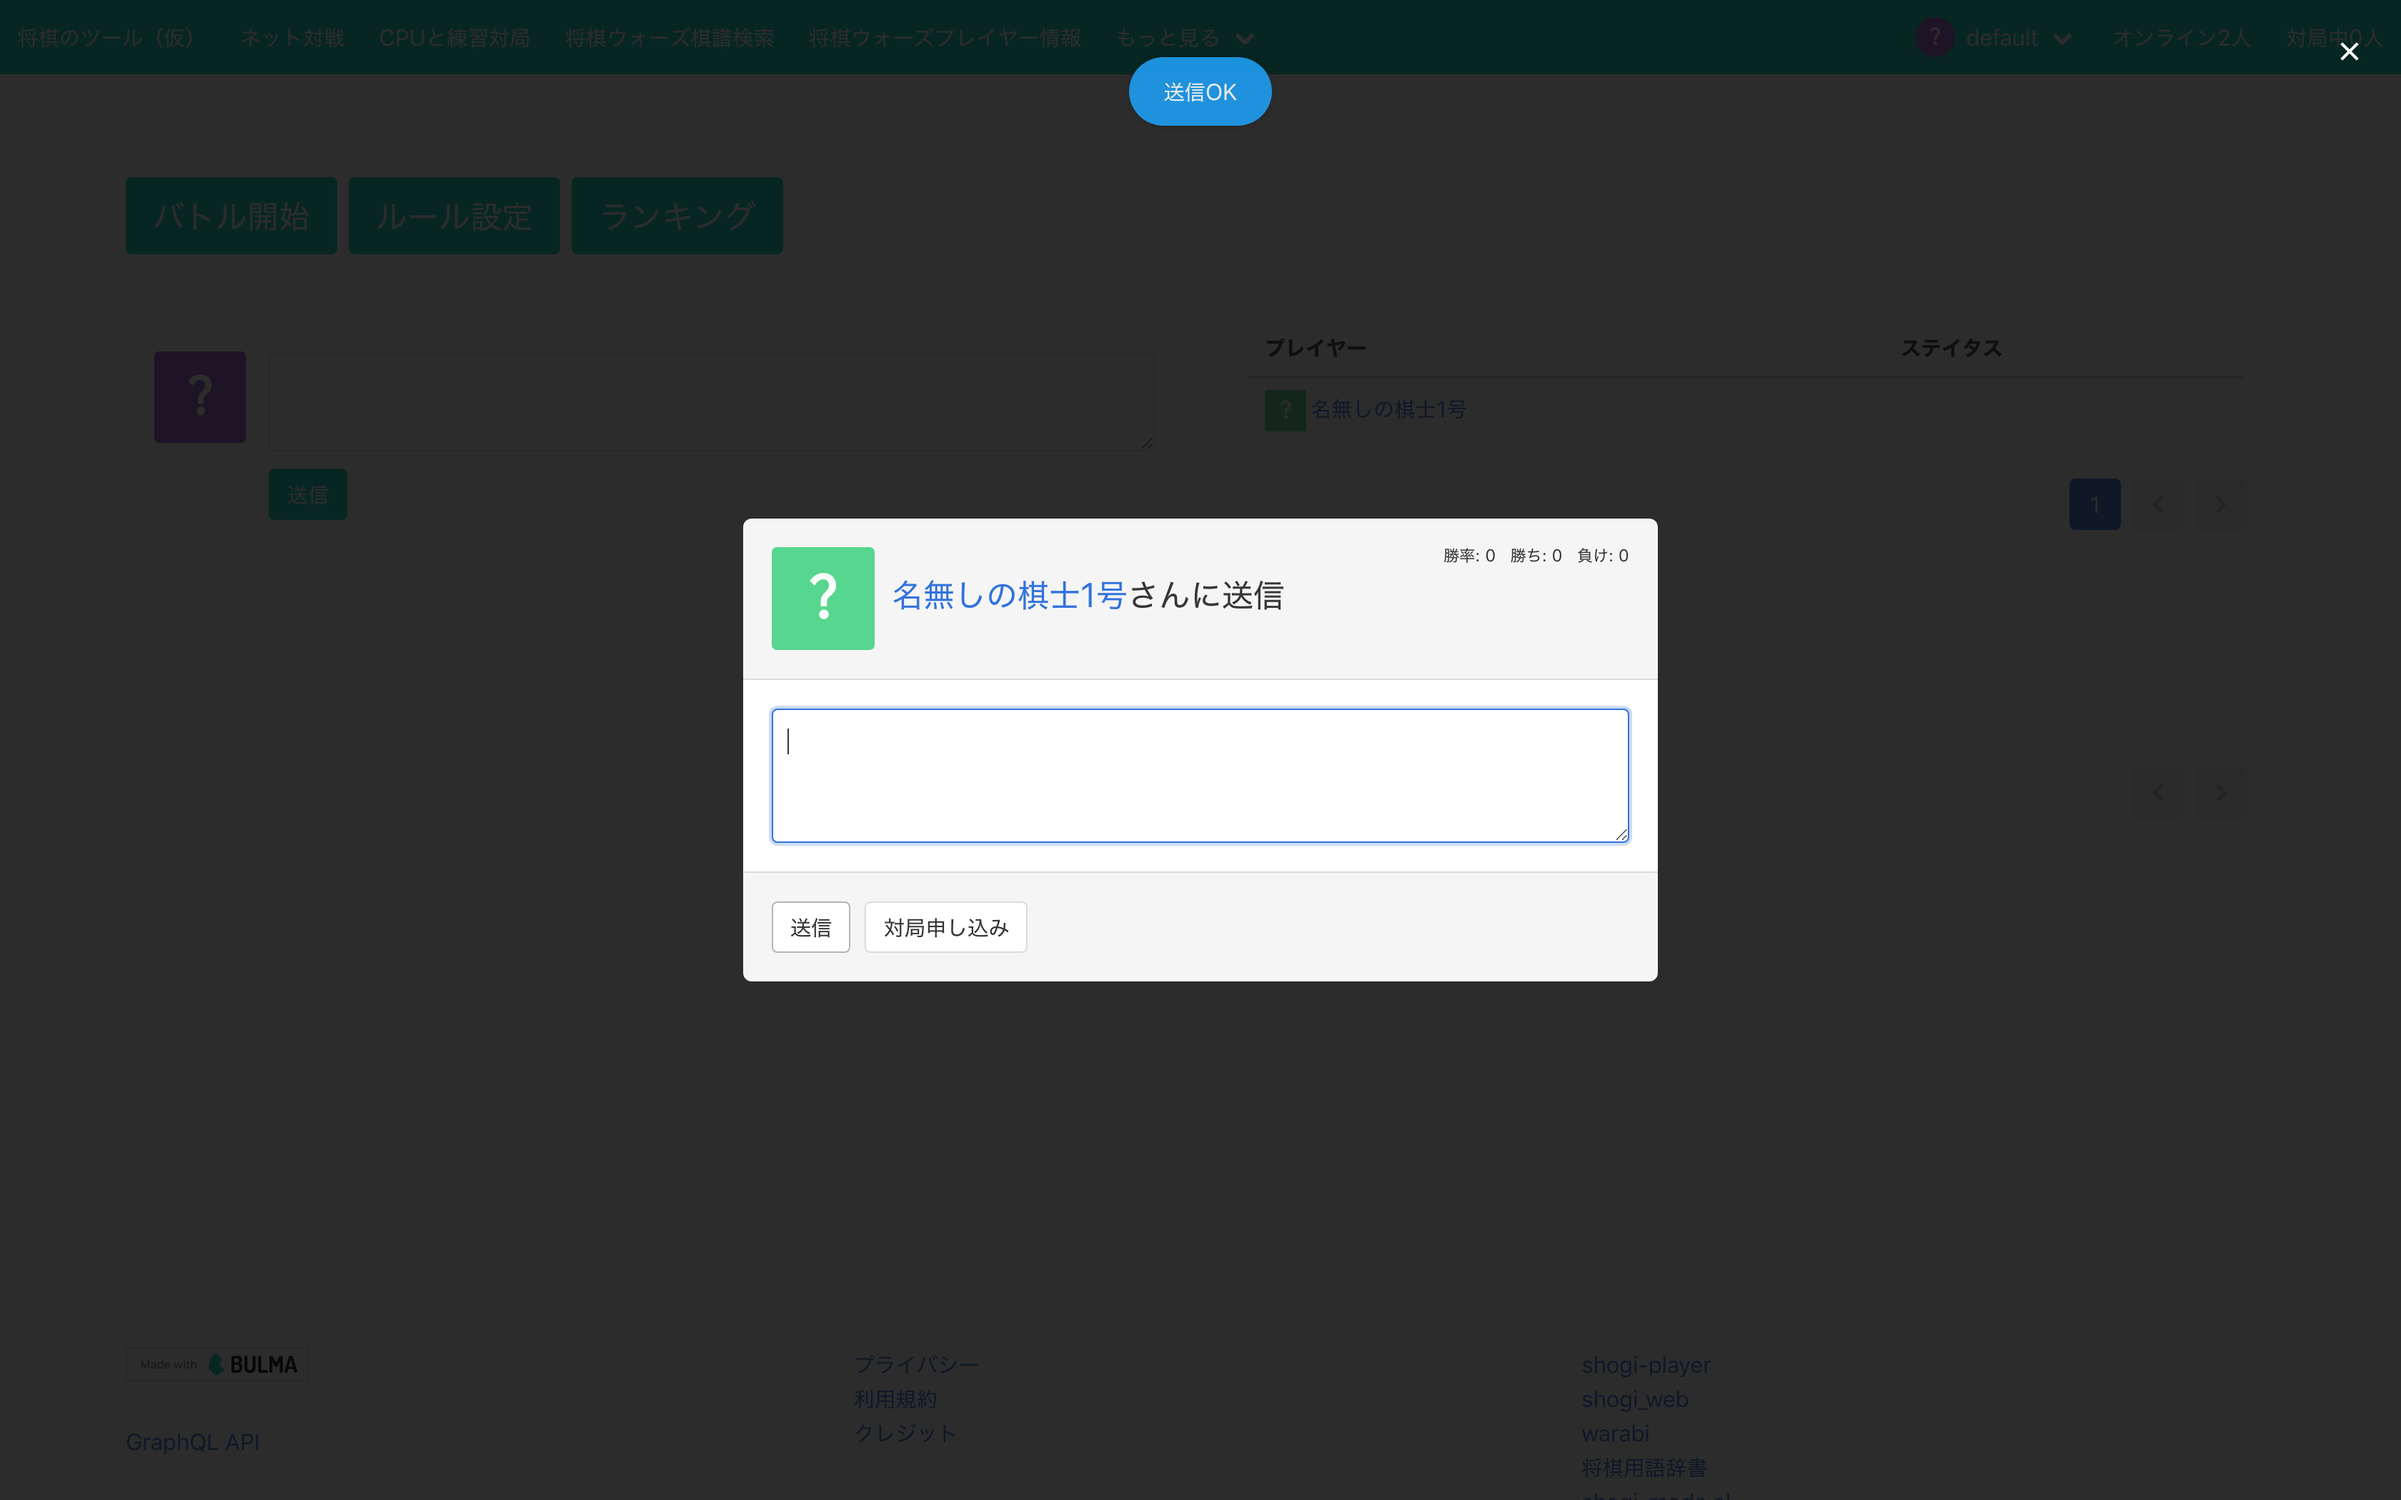
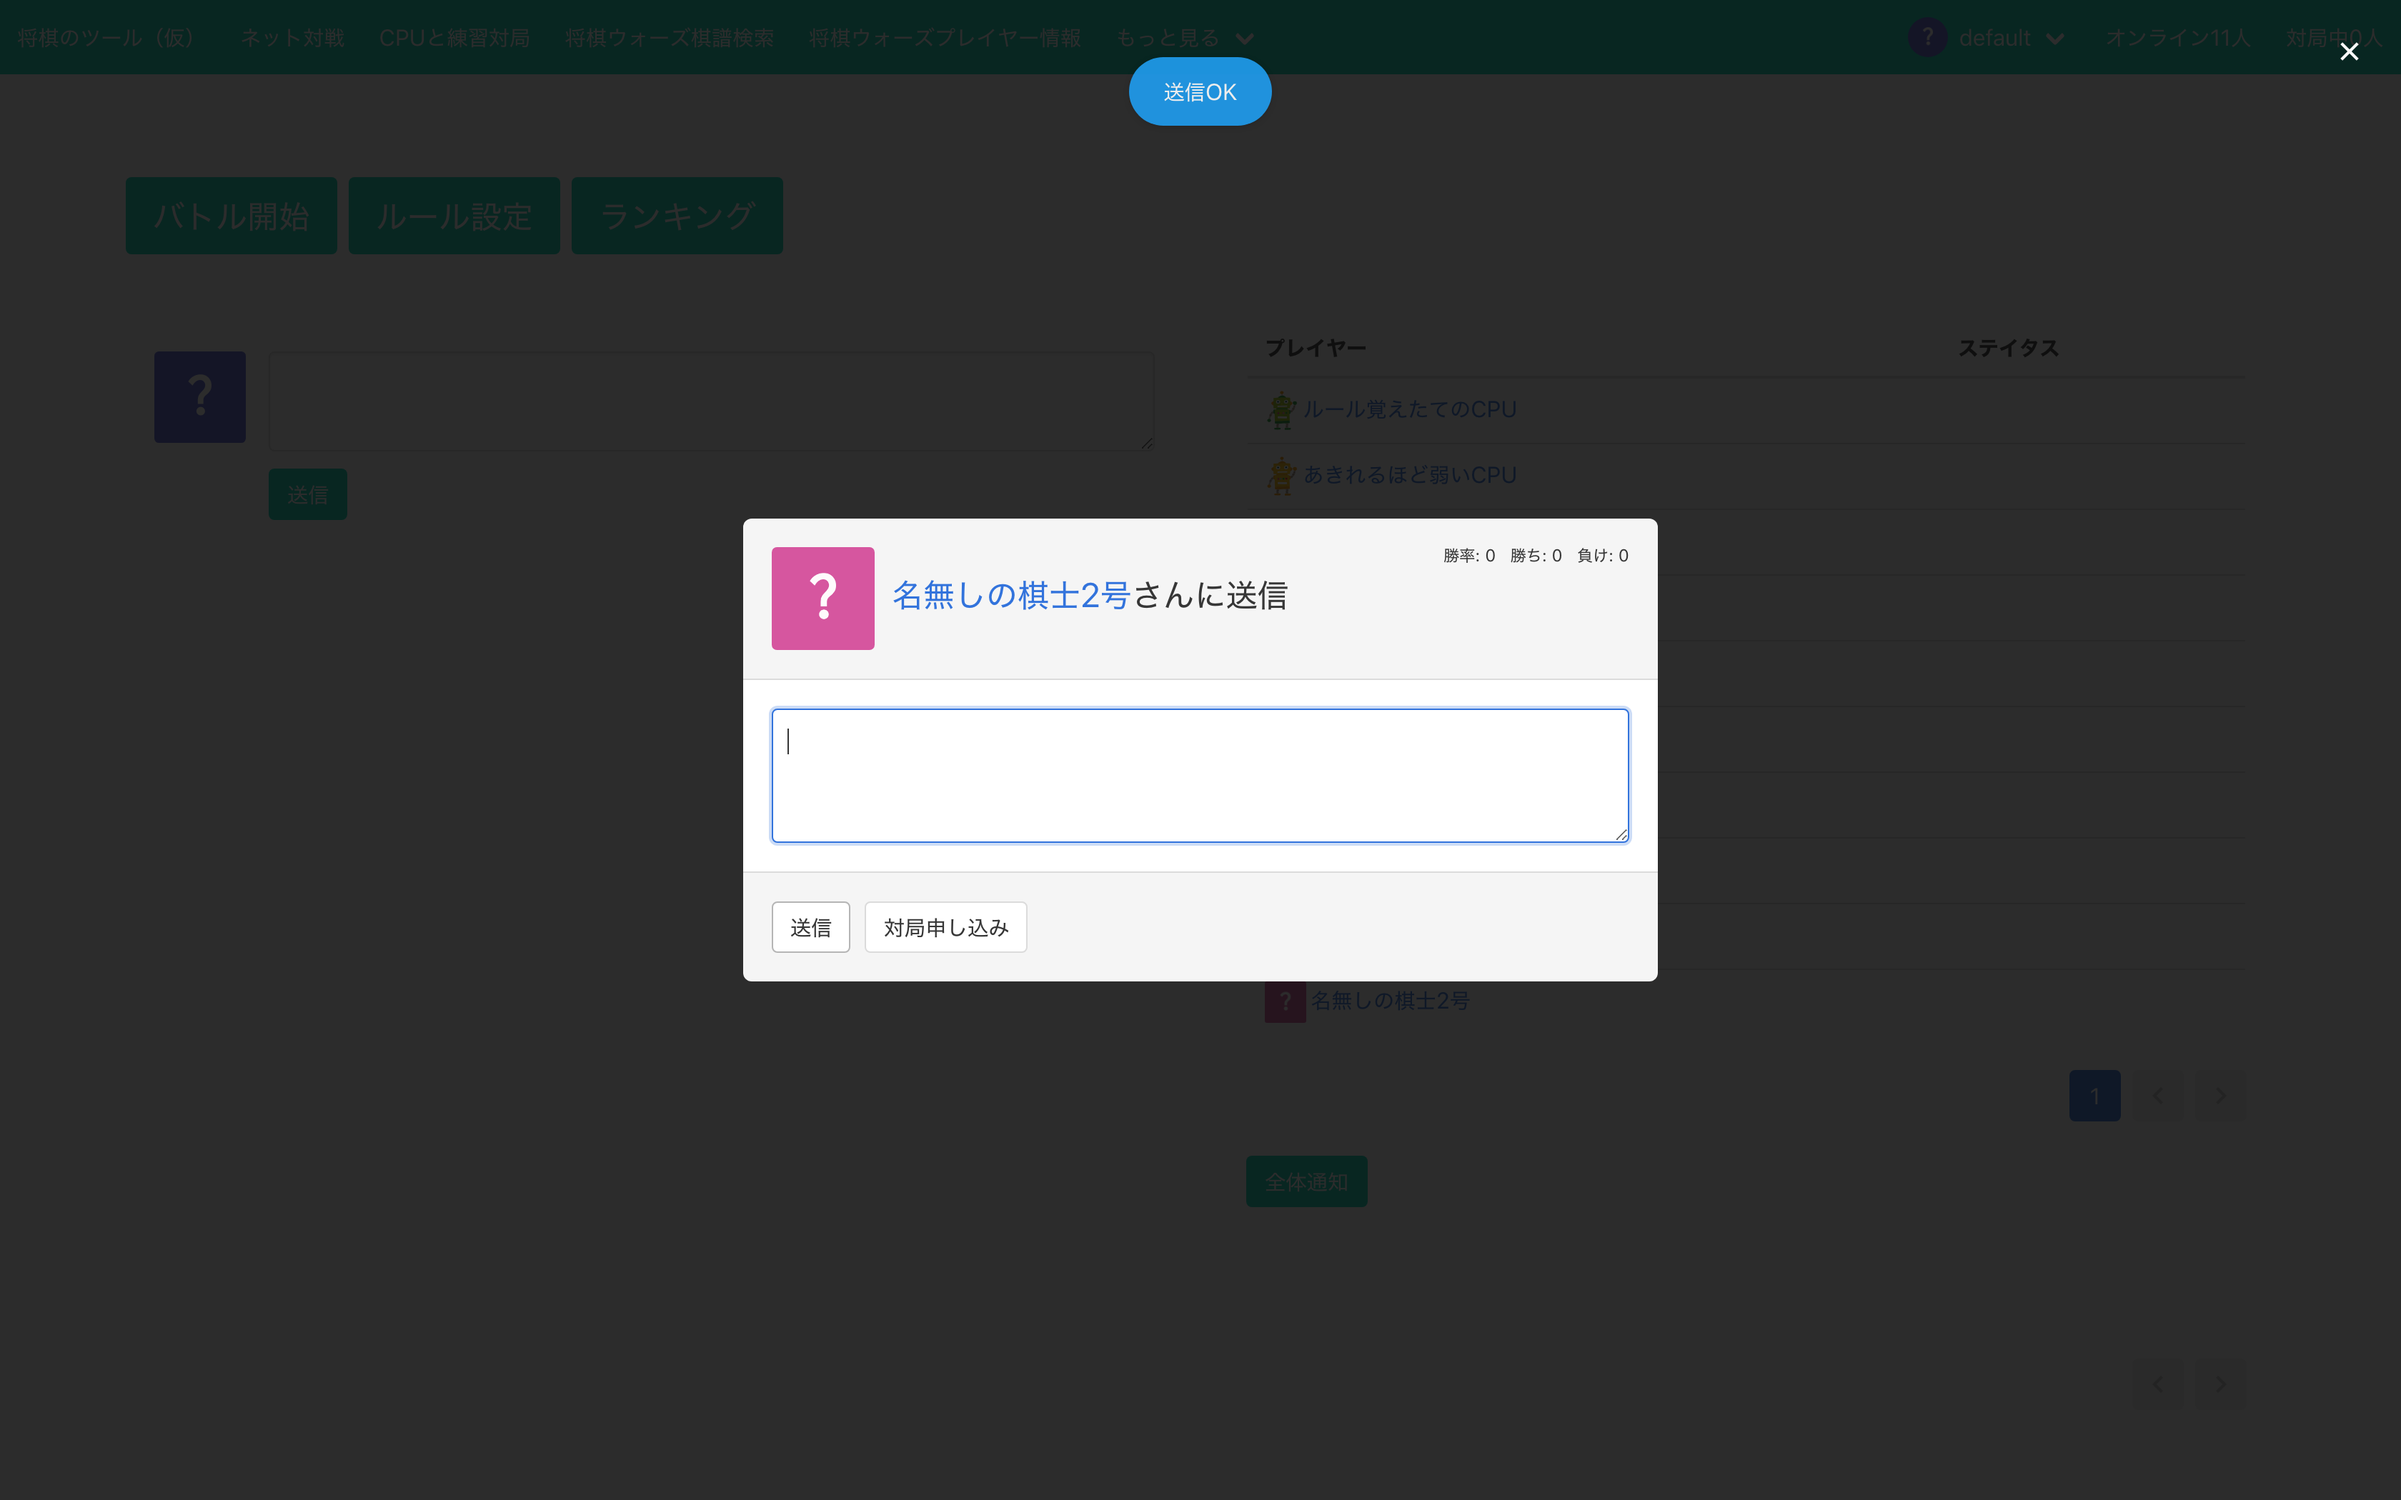
[feat] ロボットにメッセージ送信すると返事がくる

diff --git a/app/channels/single_notification_channel.rb b/app/channels/single_notification_channel.rb
@@ -7,8 +7,22 @@ class SingleNotificationChannel < ApplicationCable::Channel
 
   # App.single_notification.message_send_to({from: js_global.current_user, to: this.user_to, message: this.message})
   def message_send_to(data)
-    user = Colosseum::User.find(data["to"]["id"])
-    self.class.broadcast_to(user, data)
+    to   = Colosseum::User.find(data["to"]["id"])
+    from = Colosseum::User.find(data["from"]["id"])
+
+    # CPU同士の会話は無限ループになるため禁止
+    if to.race_info.auto_message_response && from.race_info.auto_message_response
+      return
+    end
+
+    # 受信者がCPUなら自動的に返事をする
+    if to.race_info.auto_message_response
+      message_send_to({"from" => to, "to" => from, "message" => "#{from.name}さんは#{data["message"]}なんですね"})
+      return
+    end
+
+    # 相手が人間
+    self.class.broadcast_to(to, data)
   end
 
   def battle_request_to(data)

diff --git a/spec/system/colosseum/users_spec.rb b/spec/system/colosseum/users_spec.rb
@@ -235,6 +235,21 @@ RSpec.describe "対戦", type: :system do
       end
       doc_image("送信直後")
     end
+
+    it "常駐CPUに送信" do
+      Colosseum::User.setup     # ロボットたちを準備
+
+      visit_and_login
+      find(".message_link_to.user_#{cpu_level1.id}").click
+      expect(page).to have_content "対局申し込み"
+      within(".modal-card") do
+        find("textarea").set(message)
+        click_on("送信")
+      end
+      sleep(3)                             # 待ち時間が微妙
+      expect(page).to have_content message # オウム返し
+      doc_image("返信")
+    end
   end
 
   def matching_set(name, rule)
@@ -263,5 +278,9 @@ RSpec.describe "対戦", type: :system do
 
   def message
     "おーい！対戦しようぜ！"
+  end
+
+  def cpu_level1
+    Colosseum::User.find_by!(key: Colosseum::CpuBrainInfo[:level1].key)
   end
 end

diff --git a/app/models/colosseum/race_info.rb b/app/models/colosseum/race_info.rb
@@ -2,8 +2,8 @@ module Colosseum
   class RaceInfo
     include ApplicationMemoryRecord
     memory_record [
-      { key: :robot, name: "ロボット", auto_request_ok: true,  auto_think: true,  auto_jump: true,  auto_hand: true,  },
-      { key: :human, name: "人間",     auto_request_ok: false, auto_think: false, auto_jump: false, auto_hand: false, },
+      { key: :robot, name: "ロボット", auto_request_ok: true,  auto_think: true,  auto_jump: true,  auto_hand: true,  auto_message_response: true,  },
+      { key: :human, name: "人間",     auto_request_ok: false, auto_think: false, auto_jump: false, auto_hand: false, auto_message_response: false, },
     ]
   end
 end
